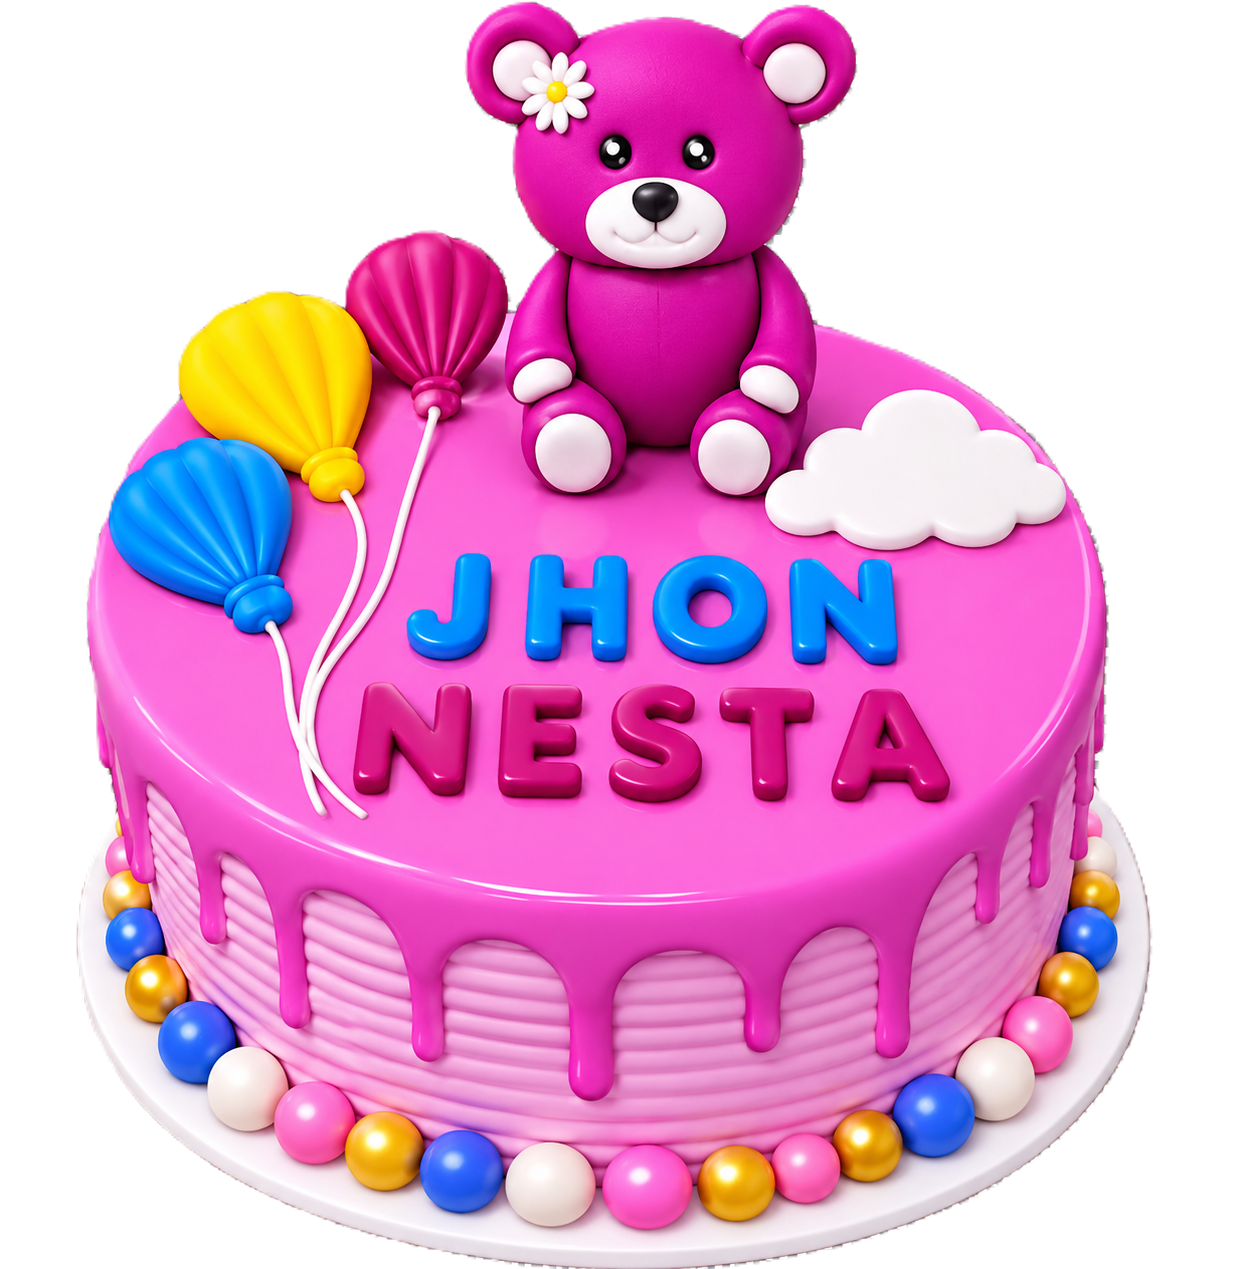
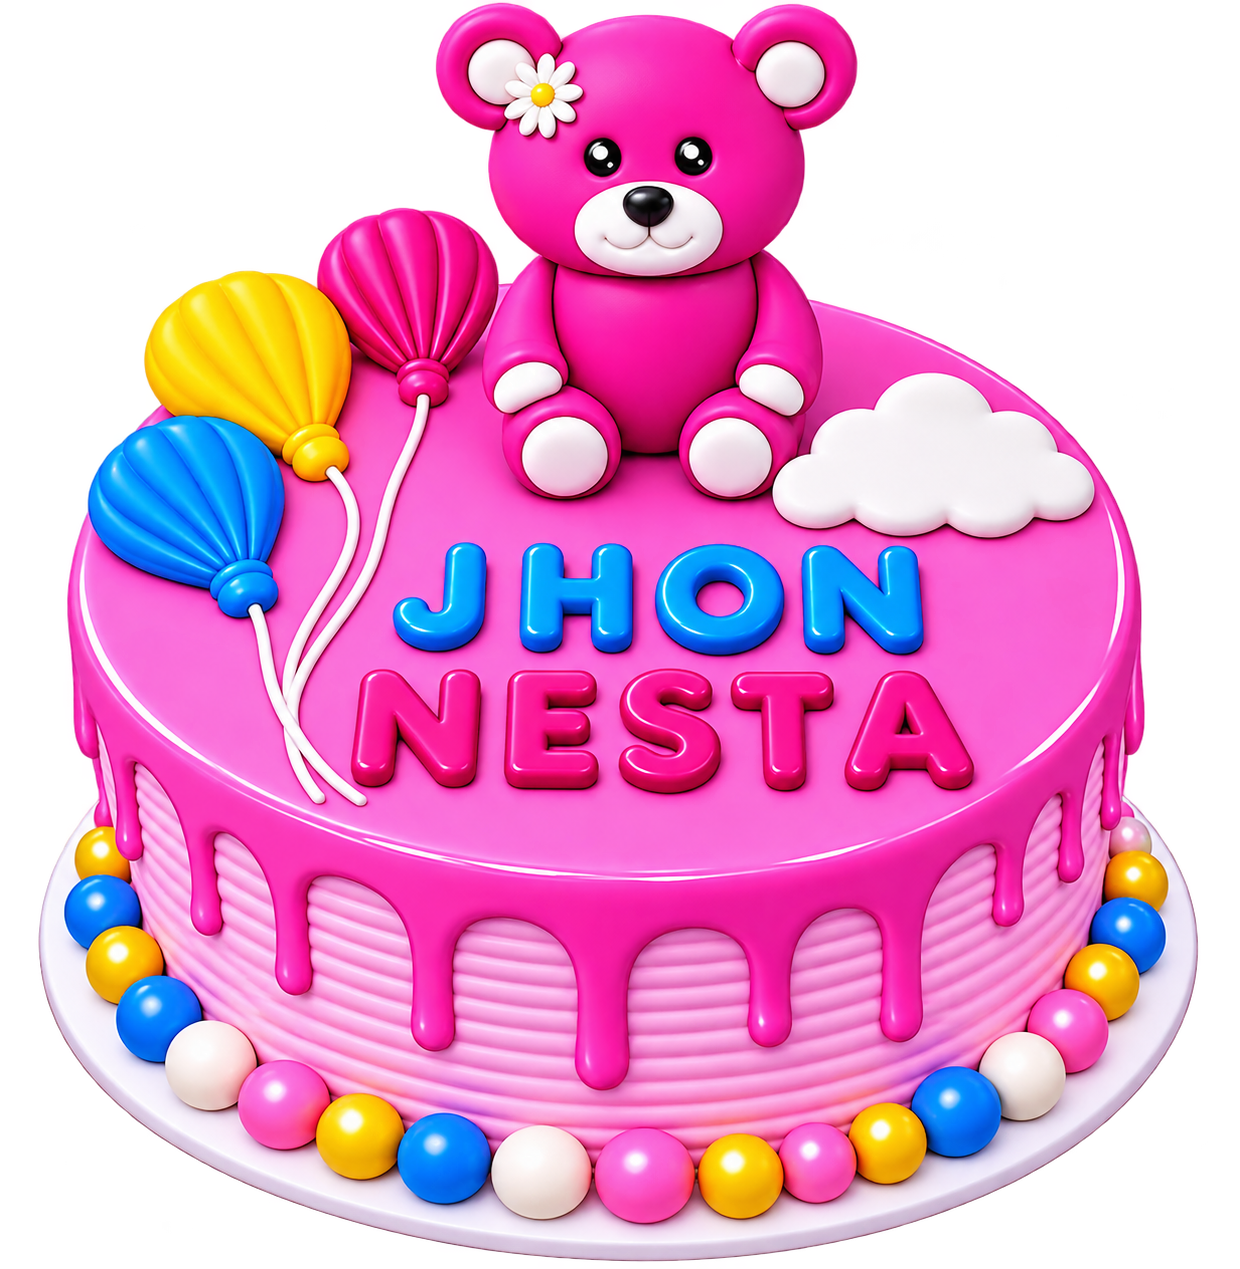
Add files via upload

diff --git a/index.html b/index.html
@@ -265,11 +265,11 @@
         <img alt="Teddy bear themed event decoration" src="bear/bear%20.png"/>
        </div>
        <div aria-hidden="true" class="showcase-floats">
-        <img alt="" class="float f1" src="bear/Glossy Orange Balloon Bouquet with Ribbons.png"/>
-        <img alt="" class="float f2" src="bear/Glossy%20Gold%20Balloon%20Trio.png"/>
-        <img alt="" class="float f3" src="bear/Glossy%20Blue%20and%20White%20Hot%20Air%20Balloon.png"/>
-        <img alt="" class="float f4" src="bear/Plush Teddy Bear with Blue Bow.png"/>
-        <img alt="" class="float f5" src="bear/Glossy White Balloon Trio.png"/>
+        <img alt="" class="float f1" src="bear/Plush Teddy Bear with Blue Bow.png"/>
+        <img alt="" class="float f2" src="bear/Glossy%20Blue%20and%20White%20Hot%20Air%20Balloon.png"/>
+        <img alt="" class="float f3" src="bear/Glossy White Balloon Trio.png"/>
+        <img alt="" class="float f4" src="bear/Glossy Orange Balloon Bouquet with Ribbons.png"/>
+        <img alt="" class="float f5" src="bear/Glossy%20Gold%20Balloon%20Trio.png"/>
        </div>
        <span class="showcase-caption">
         EVERY DETAIL IN ITS PLACE
